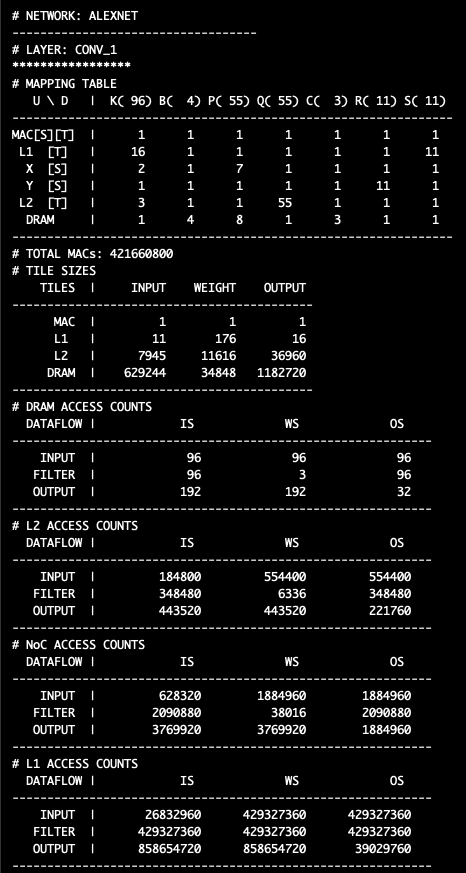
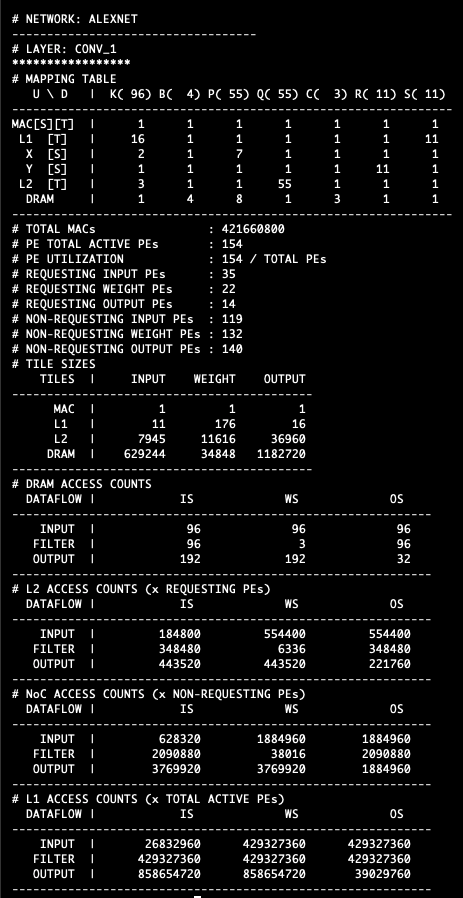
update

Changed region(s): [[0.0302, 0.0, 0.9676, 1.0], [0.6652, 0.2784, 0.6955, 0.3093]]

diff --git a/src/mapping_table.cc b/src/mapping_table.cc
@@ -35,9 +35,17 @@ void mapping_table_t::print_stats() {
         std::cout << std::endl;
     }
     handler.print_line(63, "-");
-    std::cout << "# TOTAL MACs: " << layer_vals.at(0) * layer_vals.at(1) * layer_vals.at(2) 
-                                   * layer_vals.at(3) * layer_vals.at(4) * layer_vals.at(5) 
-                                   * layer_vals.at(6) << std::endl;
+    std::cout << "# TOTAL MACs                : " << layer_vals.at(0) * layer_vals.at(1) * layer_vals.at(2) 
+                                                   * layer_vals.at(3) * layer_vals.at(4) * layer_vals.at(5) 
+                                                   * layer_vals.at(6) << std::endl;
+    std::cout << "# PE TOTAL ACTIVE PEs       : " << noc_info.total_active_pes << std::endl;
+    std::cout << "# PE UTILIZATION            : " << noc_info.total_active_pes << " / TOTAL PEs" << std::endl;
+    std::cout << "# REQUESTING INPUT PEs      : " << noc_info.requesting.input_pes << std::endl;
+    std::cout << "# REQUESTING WEIGHT PEs     : " << noc_info.requesting.weight_pes << std::endl;
+    std::cout << "# REQUESTING OUTPUT PEs     : " << noc_info.requesting.output_pes << std::endl;
+    std::cout << "# NON-REQUESTING INPUT PEs  : " << noc_info.total_active_pes - noc_info.requesting.input_pes << std::endl;
+    std::cout << "# NON-REQUESTING WEIGHT PEs : " << noc_info.total_active_pes - noc_info.requesting.weight_pes << std::endl;
+    std::cout << "# NON-REQUESTING OUTPUT PEs : " << noc_info.total_active_pes - noc_info.requesting.output_pes << std::endl;
     print_tile_size();
     print_access_cnts();
 }
@@ -301,7 +309,7 @@ void mapping_table_t::print_access_cnts() {
               << std::setw(15) << DRAM_access_cnts.ws.output_cnts
               << std::setw(15) << DRAM_access_cnts.os.output_cnts << std::endl; 
     handler.print_line(60, "-");
-    std::cout << "# L2 ACCESS COUNTS" << std::endl;
+    std::cout << "# L2 ACCESS COUNTS (x REQUESTING PEs)" << std::endl;
     std::cout << std::setw(12) << " DATAFLOW |" 
               << std::setw(15) << " IS "
               << std::setw(15) << " WS "
@@ -320,7 +328,7 @@ void mapping_table_t::print_access_cnts() {
               << std::setw(15) << L2_access_cnts.ws.output_cnts
               << std::setw(15) << L2_access_cnts.os.output_cnts << std::endl; 
     handler.print_line(60, "-");
-    std::cout << "# NoC ACCESS COUNTS" << std::endl;
+    std::cout << "# NoC ACCESS COUNTS (x NON-REQUESTING PEs)" << std::endl;
     std::cout << std::setw(12) << " DATAFLOW |" 
               << std::setw(15) << " IS "
               << std::setw(15) << " WS "
@@ -339,7 +347,7 @@ void mapping_table_t::print_access_cnts() {
               << std::setw(15) << noc_access_cnts.ws.output_cnts
               << std::setw(15) << noc_access_cnts.os.output_cnts << std::endl; 
     handler.print_line(60, "-");
-    std::cout << "# L1 ACCESS COUNTS" << std::endl;
+    std::cout << "# L1 ACCESS COUNTS (x TOTAL ACTIVE PEs)" << std::endl;
     std::cout << std::setw(12) << " DATAFLOW |" 
               << std::setw(15) << " IS "
               << std::setw(15) << " WS "

diff --git a/src/stats.h b/src/stats.h
@@ -84,6 +84,7 @@ public:
         unsigned output_pes;
     };
 
+    float pe_utilization;
     unsigned total_active_pes;
     info_t requesting;
 };
